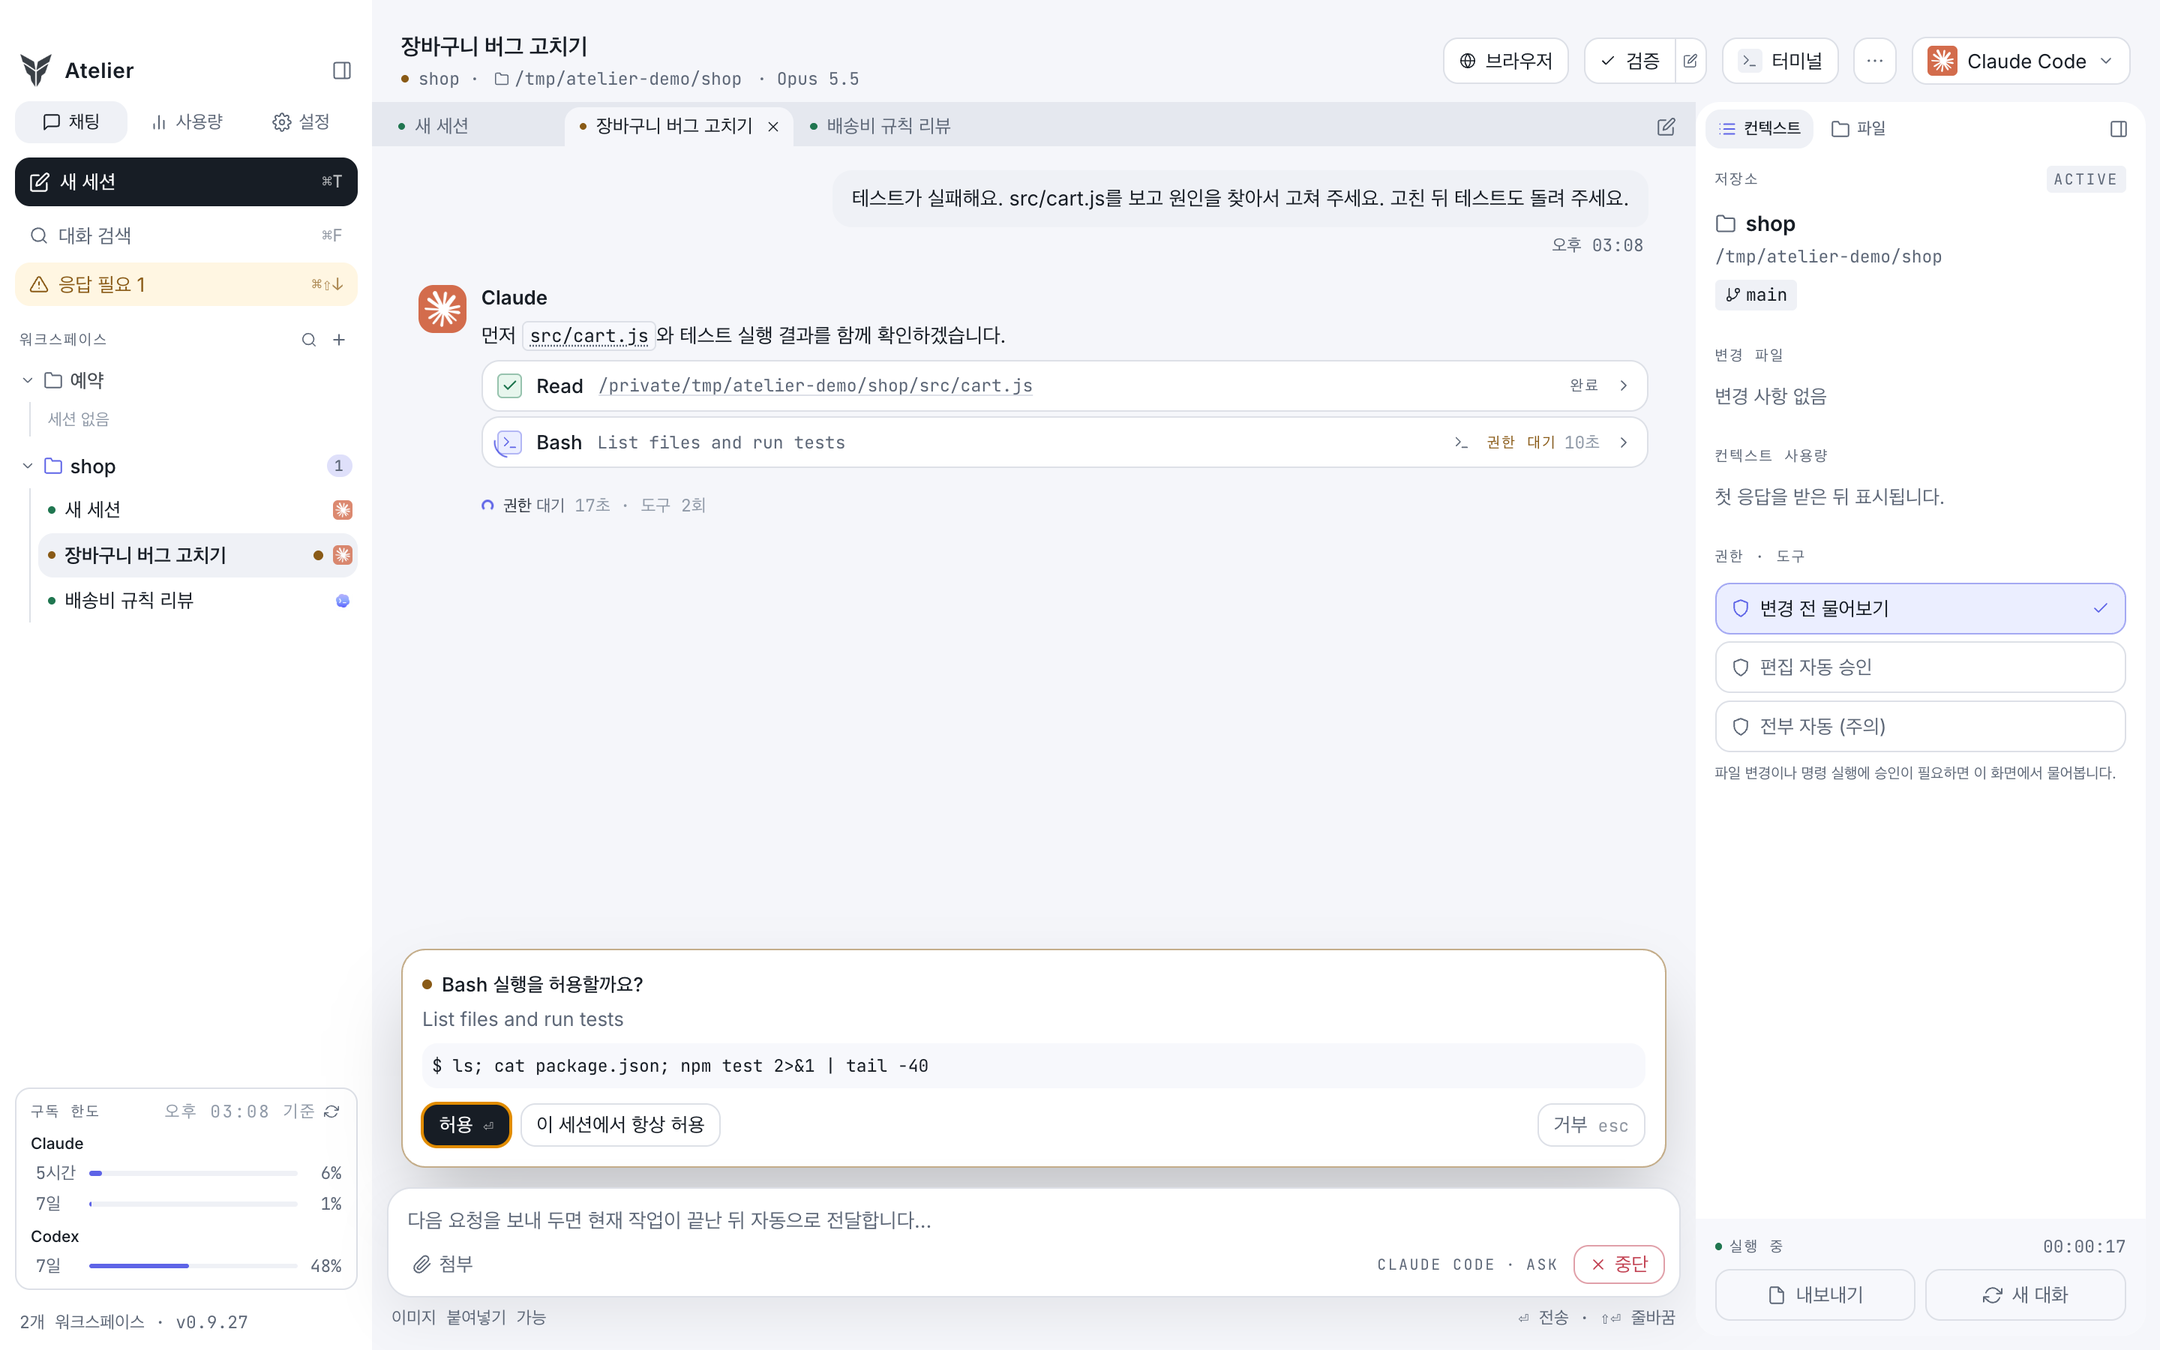
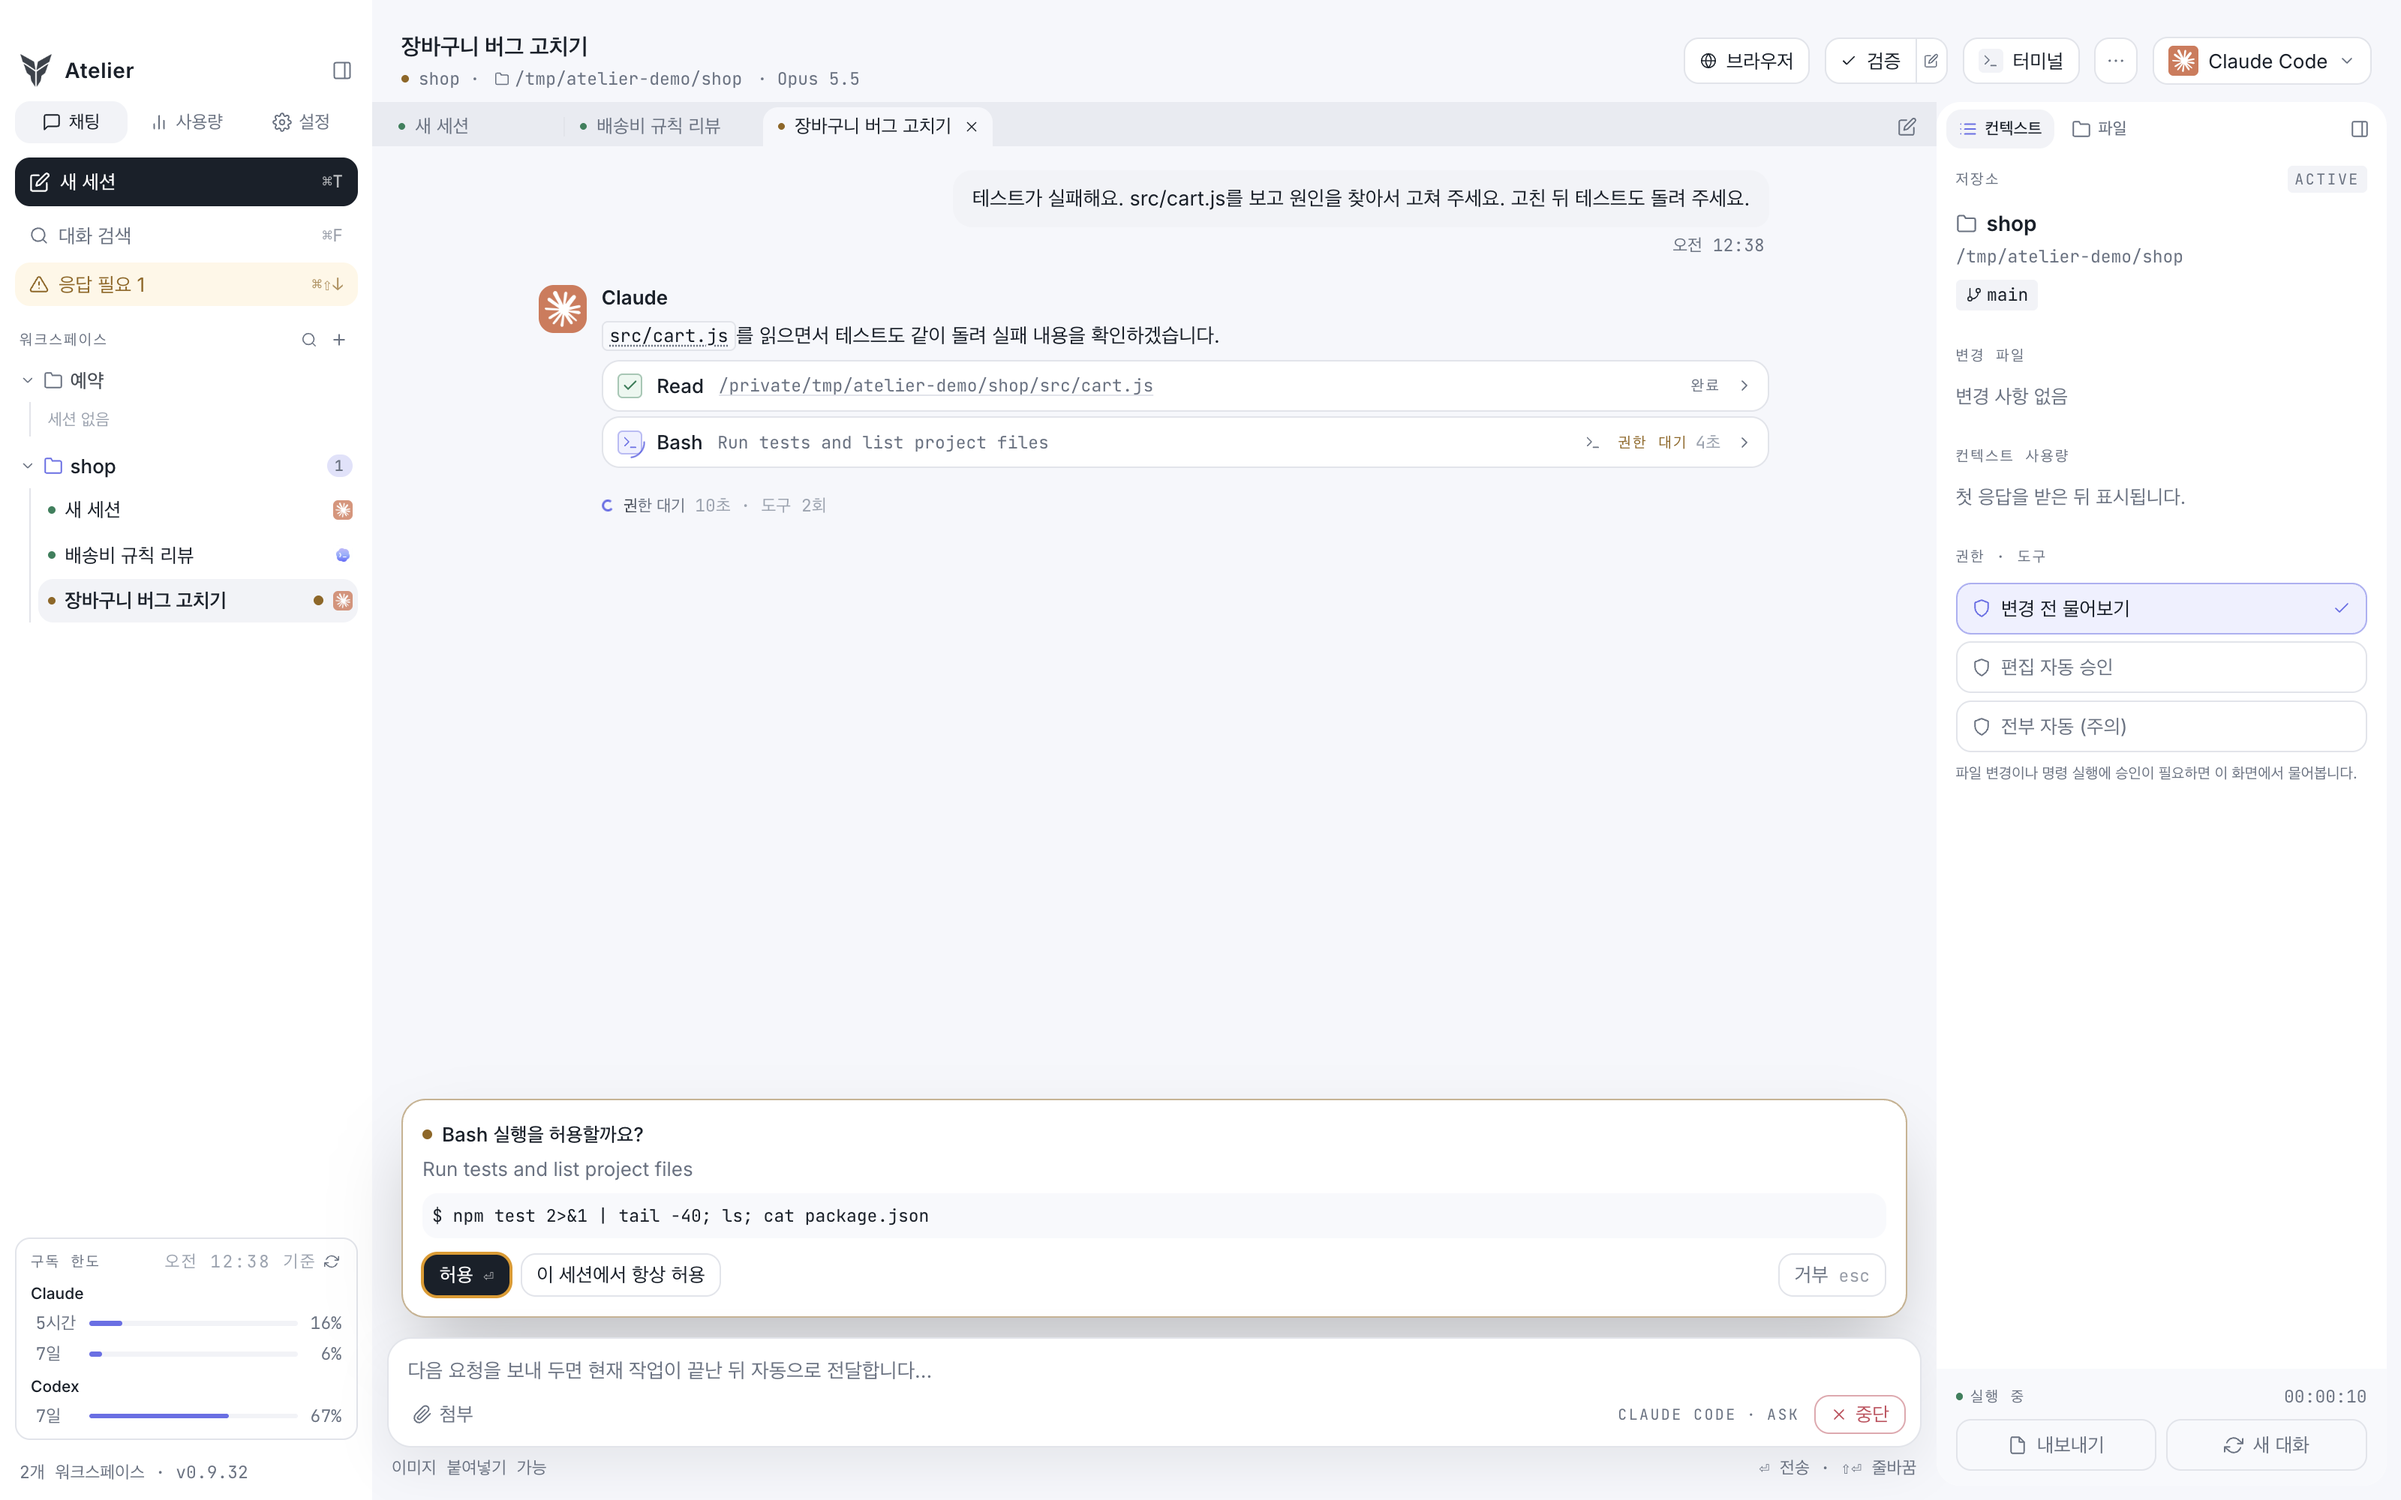
README 화면을 더 큰 창으로 다시 찍고 에디터·마크다운 화면을 넣었어요

diff --git a/README.md b/README.md
@@ -108,13 +108,25 @@ atelier tab read --tab 리뷰 --last 3
 - 테스트·빌드 명령을 저장해 두고 버튼 하나로 돌려요. 결과가 대화에 카드로 남아서, 실패하면 그대로 "이거 고쳐 줘"라고 이어 갈 수 있어요.
 - 터미널을 채팅 아래나 오른쪽에 열고, 좌우·상하로 나눠요. 같은 대화를 터미널의 Claude·Codex CLI에서 이어 가다가, 끝내면 채팅으로 돌아와요.
 - 툴 카드에 나온 명령을 터미널에 바로 넣어 실행하고, 터미널 출력의 주소나 파일 경로를 누르면 브라우저·에디터로 열어요.
-- 코드 에디터로 파일을 열어 고쳐요. 답변 속 파일 이름을 누르면 그 줄로 바로 열려요. 언어 서버(LSP)를 설치하면 TypeScript·Python 자동완성과 정의로 이동도 쓸 수 있어요.
 - 앱 안 브라우저로 개발 중인 화면을 띄우고, 폰·태블릿 폭으로 바꿔 봐요. 앱을 껐다 켜도 로그인이 유지돼요.
 - 에이전트도 `atelier browser`로 그 페이지의 글을 읽고 버튼을 눌러 보며, 고친 화면을 스스로 확인해요.
 
 ![채팅에는 Claude가 고친 diff, 오른쪽 터미널에는 테스트 통과 결과](docs/images/terminal.png)
 
 *Claude가 고친 코드를 보면서, 오른쪽 터미널에서 테스트를 바로 돌려 봐요.*
+
+### 파일을 열어 보고 고쳐요
+
+- 코드 에디터로 파일을 열어 고쳐요. 에이전트가 바꾼 줄은 diff 색으로 표시되고, 답변 속 파일 이름을 누르면 그 줄로 바로 열려요. 언어 서버(LSP)를 설치하면 TypeScript·Python 자동완성과 정의로 이동도 쓸 수 있어요.
+- 마크다운 파일은 문서처럼 정리된 미리보기로 열리고, "편집"을 누르면 바로 고칠 수 있어요.
+
+![Claude가 고친 src/cart.js를 에디터로 연 화면. 바뀐 줄이 표시되고 오른쪽 패널에 커밋 버튼이 있는 화면](docs/images/editor.png)
+
+*Claude가 고친 파일을 에디터로 열면 바뀐 줄이 표시되고, 오른쪽 패널에서 바로 커밋할 수 있어요.*
+
+![배송비 정책 마크다운 문서를 표와 코드 블록까지 정리된 미리보기로 연 화면](docs/images/markdown.png)
+
+*마크다운 문서는 표·인용·코드·체크리스트까지 읽기 좋게 보여 줘요.*
 
 ## 그 밖에
 
